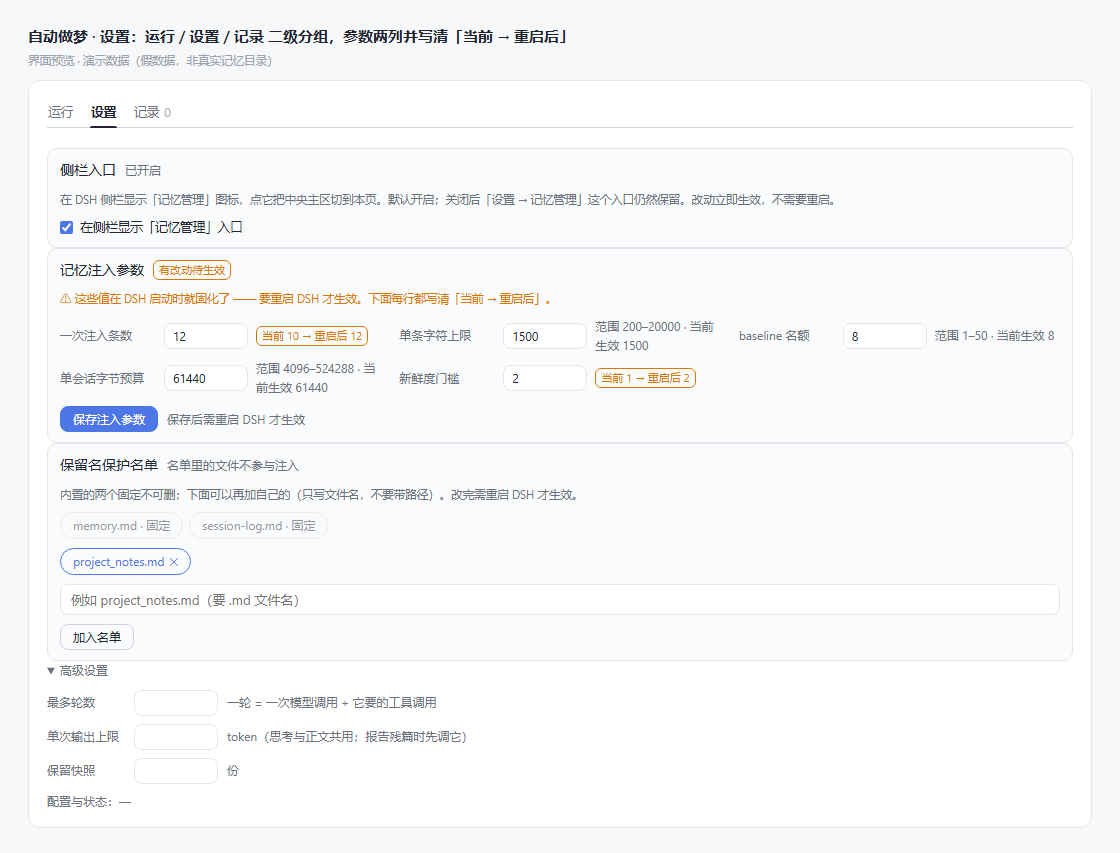
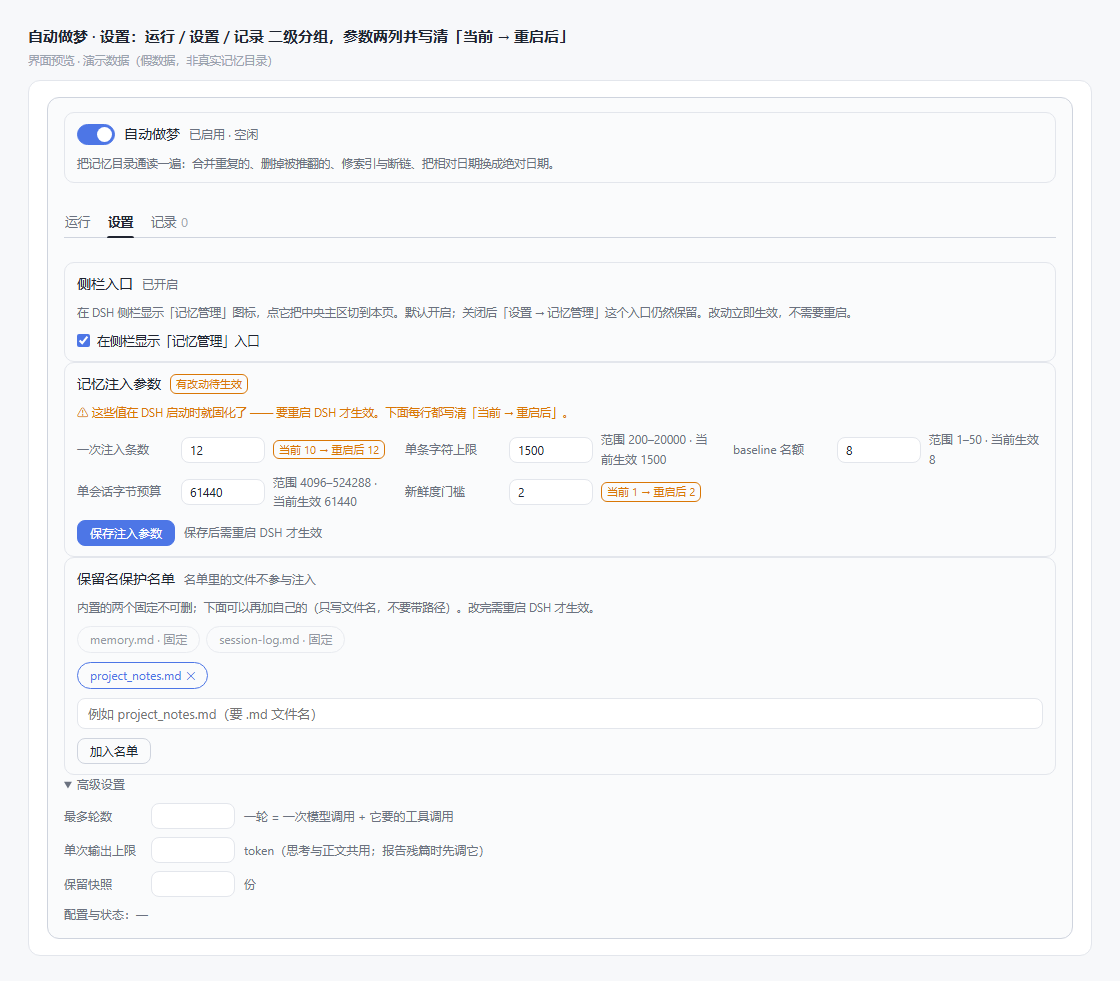
fix(ui): 模块卡头移出分段 + 两张模块卡各自带边框（2.5.0）
文歌子一眼看出来的问题：自动整理的「运行」和「设置」两页里都看到自动归档。
根因不是重复渲染（只有一张归档卡），而是**自动做梦的开关与标题原先长在「运行」段里面**：
切到设置 / 记录时它一起消失，于是紧挨着的自动归档卡被读成「当前这一段的内容」。
旧六页签时代同样的代码没人看出来 —— 那时归档独占一屏，没有邻居可误读。

- 60-autodream-panel：卡头（开关 + 标题 + 状态 + 说明）移到 subtabs 之前，在分段之外
- 40-styles：新增 .smem-module-card（边框 + 圆角）与 .smem-module-head（分割线）
- 62-archive-settings：根节点加同一套卡类，两张卡形状对齐

三屏界面快照与 11 张展示图重生成；npm test 4535 / 0。

diff --git a/lib/client.js b/lib/client.js
@@ -2576,7 +2576,13 @@ const StarmapRuntime = (function (require, _react) {
 			'.smem-chip[data-on="1"]{border-color:var(--dsw-alias-brand-primary,#4d76e6);color:var(--dsw-alias-brand-primary,#4d76e6);}',
 			".smem-chips{display:flex;gap:6px;flex-wrap:wrap;}",
 			// ── 模块卡头（2.5.0，D39）────────────────────────────────────────────
-			// 开关本体的样式在下面 `.smem-switch`（2.0 起就有，这里只补语义与卡头排版）。
+			// 一屏两张模块卡，就必须看得出「这张卡到哪儿为止」——
+			// 否则下面那张会被读成「当前这一段的内容」（2026-11-08 文歌子一眼看到的正是这个）。
+			// 所以每张卡自己带边框；卡头（开关 + 标题 + 状态）在分段之外，底下一条线把它和内容分开。
+			".smem-module-card{border:1px solid var(--dsw-alias-border-l2);border-radius:12px;background:var(--dsw-alias-bg-layer-1);padding:14px 16px;}",
+			".smem-module-head{padding-bottom:10px;border-bottom:1px solid var(--dsw-alias-border-l1);margin-bottom:12px;}",
+			".smem-module-card .smem-modcard-head{padding-bottom:10px;border-bottom:1px solid var(--dsw-alias-border-l1);margin-bottom:12px;}",
+			".smem-module-card .smem-subtabs{margin-bottom:12px;}",
 			".smem-modcard-head{display:flex;align-items:center;gap:8px;margin-bottom:8px;}",
 			".smem-modcard-title{font-weight:600;font-size:13px;}",
 			".smem-modcard-head .smem-modcard-status{margin-left:auto;color:var(--dsw-alias-label-tertiary);font-size:12px;}",
@@ -5430,14 +5436,12 @@ h("span", { key: "sep", className: "smem-actions-sep", "aria-hidden": "true" }),
 				onClick: function () { if (props.onSeg) props.onSeg(name); },
 			}, [label, note ? h("span", { className: "smem-subtab-n", key: "n" }, note) : null]);
 
-			return h("div", { className: "smem-autodream" }, [
-				h("div", { className: "smem-subtabs", key: "segs" }, [
-					subtab("run", t("ad.tab.run")),
-					subtab("settings", t("ad.tab.settings")),
-					subtab("records", t("ad.tab.records"), String(snaps.length + runs.length + reports.length)),
-				]),
-				segOf === "run" ? h("div", { key: "seg-run" }, [
-				h("div", { className: "smem-autodream-sec", key: "top" }, [
+			return h("div", { className: "smem-autodream smem-module-card" }, [
+				// 模块卡头（2.5.0 修）：开关 + 标题 + 状态**必须活在分段之外**。
+				// 它回答的是「这是哪个模块、现在是开是关」，和「这次看哪一段」是两个维度；
+				// 原先它长在「运行」段里，切到设置 / 记录就一起消失 —— 于是下面那张
+				// 自动归档的卡看起来像是当前这一段的内容（文歌子 2026-11-08 一眼看到的就是这个）。
+				h("div", { className: "smem-autodream-sec smem-module-head", key: "top" }, [
 					h("div", { className: "smem-autodream-row", key: "r" }, [
 						h(Switch, {
 							key: "sw",
@@ -5452,6 +5456,12 @@ h("span", { key: "sep", className: "smem-actions-sep", "aria-hidden": "true" }),
 					]),
 					h("div", { className: "smem-autodream-note", key: "n" }, t("ad.note.what")),
 				]),
+				h("div", { className: "smem-subtabs", key: "segs" }, [
+					subtab("run", t("ad.tab.run")),
+					subtab("settings", t("ad.tab.settings")),
+					subtab("records", t("ad.tab.records"), String(snaps.length + runs.length + reports.length)),
+				]),
+				segOf === "run" ? h("div", { key: "seg-run" }, [
 				h("div", { className: "smem-autodream-sec", key: "mode" }, [
 					h("div", { className: "smem-autodream-row", key: "a" }, [
 						h("span", { className: "smem-autodream-key", key: "k" }, t("ad.row.trigger")),
@@ -5937,7 +5947,7 @@ h("span", { key: "sep", className: "smem-actions-sep", "aria-hidden": "true" }),
 
 			// 根节点带一个稳定的类名（2.5.0）：它现在与「自动做梦」同屏堆叠，
 			// 断言与样式都得能把这一张卡与旁边那张分开 —— 没有类名就只能按整棵树找文本。
-			return h("div", { className: "smem-archive-settings" }, [
+			return h("div", { className: "smem-archive-settings smem-module-card" }, [
 				// ── ① 模块卡头（2.5.0，D39）：开关 + 标题 + 状态 ──
 				// 开关的真身就是 `autoArchive === 'off'`，没有新增配置键。
 				h("div", { className: "smem-modcard-head", key: "head" }, [

diff --git a/client/60-autodream-panel.js b/client/60-autodream-panel.js
@@ -361,14 +361,12 @@
 				onClick: function () { if (props.onSeg) props.onSeg(name); },
 			}, [label, note ? h("span", { className: "smem-subtab-n", key: "n" }, note) : null]);
 
-			return h("div", { className: "smem-autodream" }, [
-				h("div", { className: "smem-subtabs", key: "segs" }, [
-					subtab("run", t("ad.tab.run")),
-					subtab("settings", t("ad.tab.settings")),
-					subtab("records", t("ad.tab.records"), String(snaps.length + runs.length + reports.length)),
-				]),
-				segOf === "run" ? h("div", { key: "seg-run" }, [
-				h("div", { className: "smem-autodream-sec", key: "top" }, [
+			return h("div", { className: "smem-autodream smem-module-card" }, [
+				// 模块卡头（2.5.0 修）：开关 + 标题 + 状态**必须活在分段之外**。
+				// 它回答的是「这是哪个模块、现在是开是关」，和「这次看哪一段」是两个维度；
+				// 原先它长在「运行」段里，切到设置 / 记录就一起消失 —— 于是下面那张
+				// 自动归档的卡看起来像是当前这一段的内容（文歌子 2026-11-08 一眼看到的就是这个）。
+				h("div", { className: "smem-autodream-sec smem-module-head", key: "top" }, [
 					h("div", { className: "smem-autodream-row", key: "r" }, [
 						h(Switch, {
 							key: "sw",
@@ -383,6 +381,12 @@
 					]),
 					h("div", { className: "smem-autodream-note", key: "n" }, t("ad.note.what")),
 				]),
+				h("div", { className: "smem-subtabs", key: "segs" }, [
+					subtab("run", t("ad.tab.run")),
+					subtab("settings", t("ad.tab.settings")),
+					subtab("records", t("ad.tab.records"), String(snaps.length + runs.length + reports.length)),
+				]),
+				segOf === "run" ? h("div", { key: "seg-run" }, [
 				h("div", { className: "smem-autodream-sec", key: "mode" }, [
 					h("div", { className: "smem-autodream-row", key: "a" }, [
 						h("span", { className: "smem-autodream-key", key: "k" }, t("ad.row.trigger")),

diff --git a/client/40-styles.js b/client/40-styles.js
@@ -180,7 +180,13 @@
 			'.smem-chip[data-on="1"]{border-color:var(--dsw-alias-brand-primary,#4d76e6);color:var(--dsw-alias-brand-primary,#4d76e6);}',
 			".smem-chips{display:flex;gap:6px;flex-wrap:wrap;}",
 			// ── 模块卡头（2.5.0，D39）────────────────────────────────────────────
-			// 开关本体的样式在下面 `.smem-switch`（2.0 起就有，这里只补语义与卡头排版）。
+			// 一屏两张模块卡，就必须看得出「这张卡到哪儿为止」——
+			// 否则下面那张会被读成「当前这一段的内容」（2026-11-08 文歌子一眼看到的正是这个）。
+			// 所以每张卡自己带边框；卡头（开关 + 标题 + 状态）在分段之外，底下一条线把它和内容分开。
+			".smem-module-card{border:1px solid var(--dsw-alias-border-l2);border-radius:12px;background:var(--dsw-alias-bg-layer-1);padding:14px 16px;}",
+			".smem-module-head{padding-bottom:10px;border-bottom:1px solid var(--dsw-alias-border-l1);margin-bottom:12px;}",
+			".smem-module-card .smem-modcard-head{padding-bottom:10px;border-bottom:1px solid var(--dsw-alias-border-l1);margin-bottom:12px;}",
+			".smem-module-card .smem-subtabs{margin-bottom:12px;}",
 			".smem-modcard-head{display:flex;align-items:center;gap:8px;margin-bottom:8px;}",
 			".smem-modcard-title{font-weight:600;font-size:13px;}",
 			".smem-modcard-head .smem-modcard-status{margin-left:auto;color:var(--dsw-alias-label-tertiary);font-size:12px;}",

diff --git a/client/62-archive-settings.js b/client/62-archive-settings.js
@@ -129,7 +129,7 @@
 
 			// 根节点带一个稳定的类名（2.5.0）：它现在与「自动做梦」同屏堆叠，
 			// 断言与样式都得能把这一张卡与旁边那张分开 —— 没有类名就只能按整棵树找文本。
-			return h("div", { className: "smem-archive-settings" }, [
+			return h("div", { className: "smem-archive-settings smem-module-card" }, [
 				// ── ① 模块卡头（2.5.0，D39）：开关 + 标题 + 状态 ──
 				// 开关的真身就是 `autoArchive === 'off'`，没有新增配置键。
 				h("div", { className: "smem-modcard-head", key: "head" }, [

diff --git a/CHANGELOG.md b/CHANGELOG.md
@@ -20,6 +20,7 @@
   - 「自动做梦」+「自动归档」→ **自动整理**一屏两张卡，各自保留原来的「运行 / 设置 / 记录」三段。归档仍是确定性规则（按闲置天数算、不调模型），只是不再独占一屏。
   - 「体检」+「冲突」→ **库健康**一屏两张卡：**冲突在前**（要你裁决的有限队列）、体检在后（机器扫出来的长清单）。进这一屏会把两样都取一次（都是只读）。
   - 面板里唯一的「页签级」状态是内存里的当前页签，**没有按页签寻址的深链接**，所以这次删页签不会让任何链接失效。
+- **两张模块卡各自带边框，模块卡头（开关 + 标题 + 状态）在分段之外。** 修的是一个一眼就能看出来的毛病：自动做梦的开关与标题原先长在「运行」段**里面**（旧六页签时代就是这样，只是那时归档独占一屏、没人一眼看出来），切到「设置 / 记录」就一起消失，于是下面那张自动归档的卡被读成「当前这一段的内容」。现在每张卡自己带边框，卡头在下划线之上，分段只切换卡内内容。
 - **编辑从页面内联表单搬进右侧抽屉。** 字段、校验、保存路径一个字没变；变的是它不再把列表顶下去。抽屉有「取消 / 点遮罩 / Esc」三条出口。
 - **九处危险动作的就地确认条 → 统一模态框。** 归档、彻底删除（归档件）、删除记忆、回滚快照、归档候选（逐条 / 批量）、标失效、撤销失效、删除冲突记录。**两段式没变**：触发按钮是第一段，模态是第二段，永远不合并。
   - 「删除记忆」此前那条确认条**一句话解释都没有**，只有两个按钮；进模态时补了一句「删除是直接拿掉文件、不进档案馆、没有撤销」。
